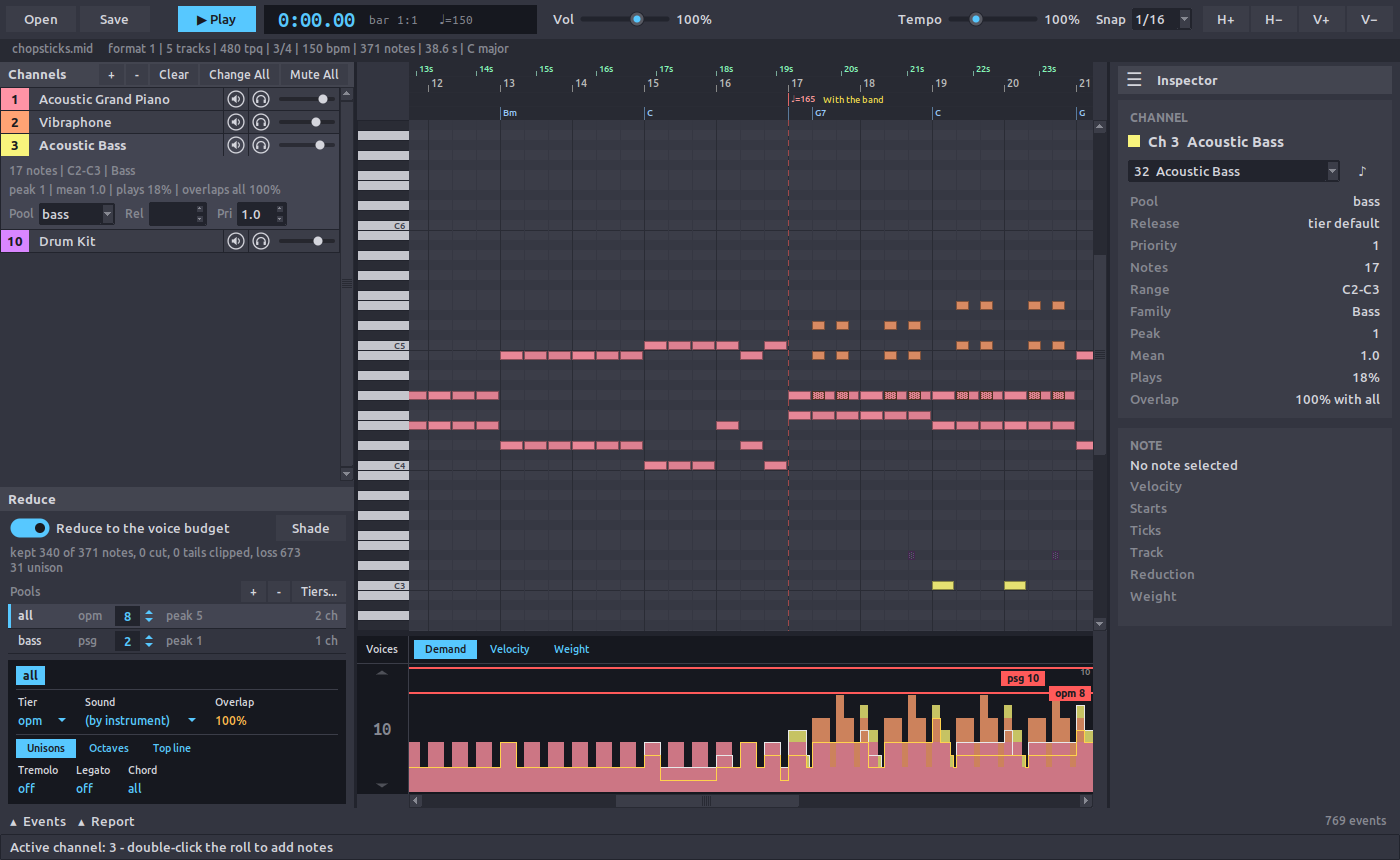
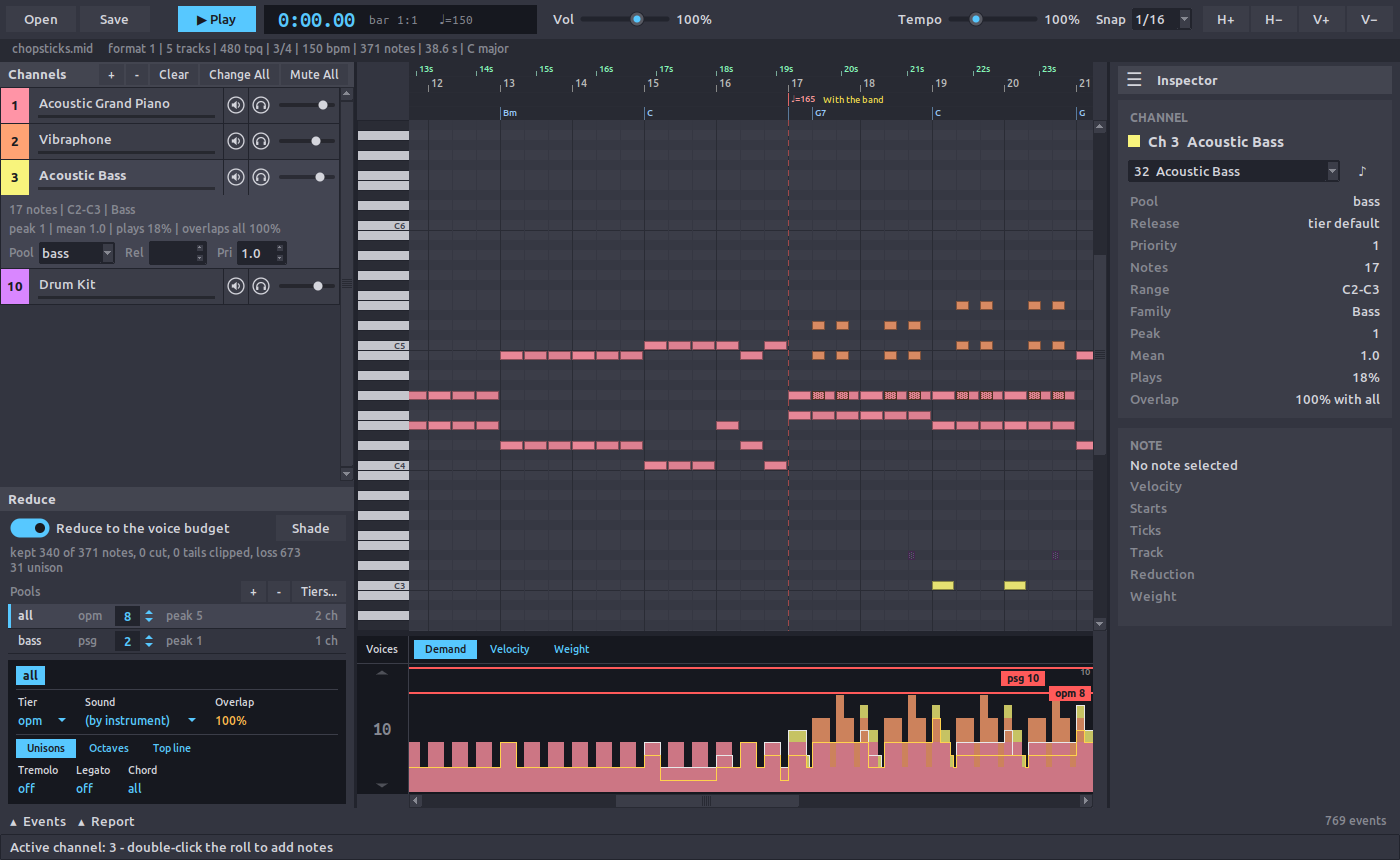
Show each channel's level during playback on a meter line under its name, with a held peak, and light its number swatch by the level, dimming it while the channel is silent; make the rows taller to hold the meter; update the docs and the changelog and retake the screenshots

Changed region(s): [[0.0, 0.0907, 0.2457, 0.3628]]

diff --git a/montyroll/app.py b/montyroll/app.py
@@ -62,7 +62,14 @@ MASTER_MAX = 150     # the master volume's top, in percent
 GAP_STEP = 10        # ticks a step of the Tremolo and Legato readouts moves
 NOTE_HOVER_MIX = 0.2     # how far the note under the pointer is lit towards white
 NOTE_MARGIN = 1.0    # view widths of notes drawn either side of the roll's view
-ROW_PAD = "1.5p"     # space above and below a channel row's name, which sets the bar's height
+ROW_PAD = "3.75p"    # space above a row's name and below its meter, setting the bar's height
+METER_GAP = "1.5p"   # between a row's name and its meter line
+METER_H = 3          # the meter line's height, in pixels
+METER_SUSTAIN = 0.66     # a held note's level against its onset's
+METER_DECAY_S = 0.4      # seconds from a note's onset to its held level
+METER_FALL = 1.5         # full scales a meter falls per second once its notes end
+METER_PEAK_HOLD_S = 1.0  # seconds a meter's peak mark holds before it falls
+SWATCH_DIM = 0.7     # how far a silent channel's swatch sinks into its bar during playback
 HOVER_LEVELS = ("bar", "beat", "cell")   # the lit areas under the pointer, outermost first
 BLACK_KEYS = (1, 3, 6, 8, 10)   # pitch classes of the black keys, shaded on the roll
 KEY_BLACK_SHADE = 0.6   # a lit black key's share of its channel colour, so it still reads as black
@@ -346,6 +353,11 @@ class MidiEditorApp(tk.Tk):
         self.channelDetails: dict[int, tk.Frame] = {}    # per channel: the part shown when active
         self.nameLabels: dict[int, tk.Label] = {}        # per channel: the instrument on its row
         self.rowBars: dict[int, tk.Frame] = {}           # per channel: its row's one-line bar
+        self.rowSwatches: dict[int, tk.Label] = {}       # per channel: the number on its colour
+        self.rowMeters: dict[int, tk.Canvas] = {}        # per channel: the level meter line
+        self._meters: dict[int, list[float]] = {}        # per channel: [level, peak, peak's age]
+        self._meterDrawn: dict[int, tuple] = {}          # per channel: what its meter shows
+        self._meterTime: float | None = None             # the frame the meters last moved at
         self.rowNames: dict[int, str] = {}               # per channel: that name in full
         self.activeChannel = 0
         self.originalPrograms: dict[int, int] = {}   # per channel, as the file was opened
@@ -1563,6 +1575,9 @@ class MidiEditorApp(tk.Tk):
         self.nameLabels.clear()
         self.rowNames.clear()
         self.rowBars.clear()
+        self.rowSwatches.clear()
+        self.rowMeters.clear()
+        self._meterDrawn.clear()
         self.poolCombos.clear()
         self.usageLabels.clear()
         self.usageText.clear()
@@ -1587,8 +1602,10 @@ class MidiEditorApp(tk.Tk):
             top = tk.Frame(row, bg=p["raised"])
             top.pack(fill="x")
             self.rowBars[ch] = top
-            tk.Label(top, text=str(ch + 1), bg=colour, fg=p["ink"], width=digits, padx=5,
-                     font=(self.uiFamily, 10, "bold")).pack(side="left", fill="y")
+            swatch = tk.Label(top, text=str(ch + 1), bg=colour, fg=p["ink"], width=digits,
+                              padx=5, font=(self.uiFamily, 10, "bold"))
+            swatch.pack(side="left", fill="y")
+            self.rowSwatches[ch] = swatch
 
             # Volume slider starts at the file's CC7 value, or 100 when the
             # channel has none. Its style puts the trough on the bar's grey.
@@ -1624,12 +1641,23 @@ class MidiEditorApp(tk.Tk):
                 tk.Frame(top, width=1, bg=p["border"]).pack(side="right", fill="y")
                 Tooltip(b, tip)
 
+            # The level meter, a line under the name in the space between the
+            # swatch and the controls, which _moveMeters fills during
+            # playback: a fill in the channel's colour and a peak mark.
+            meter = tk.Canvas(top, height=METER_H, highlightthickness=0,
+                              bg=theme.mix(p["raised"], "#000000", 0.35))
+            meter.pack(side="bottom", fill="x", padx=(9, 8), pady=(METER_GAP, ROW_PAD))
+            meter.create_rectangle(0, 0, 0, METER_H, fill=colour, outline="", tags="level")
+            meter.create_rectangle(0, 0, 0, METER_H, fill=p["text"], outline="", tags="peak",
+                                   state="hidden")
+            self.rowMeters[ch] = meter
+
             # The name asks for no width of its own and is fitted to what it
-            # is given whenever that changes; its padding sets the bar's
-            # height.
+            # is given whenever that changes; the space above it and below
+            # the meter sets the bar's height.
             name = tk.Label(top, text=info.instrument, anchor="w", width=1, bg=p["raised"],
-                            fg=p["text"], font=self.rowNameFont, pady=ROW_PAD)
-            name.pack(side="left", fill="x", expand=True, padx=(8, 0))
+                            fg=p["text"], font=self.rowNameFont, pady=1)
+            name.pack(side="left", fill="x", expand=True, padx=(8, 0), pady=(ROW_PAD, 0))
             name.bind("<Configure>", lambda e, c=ch: self._fitRowName(c))
             self.nameLabels[ch] = name
             self.rowNames[ch] = info.instrument
@@ -1954,7 +1982,7 @@ class MidiEditorApp(tk.Tk):
                 detail.pack_forget()
 
     def _paintRowBar(self, ch: int, colour: str, bold: bool):
-        """Colour a channel row's bar, its icons' and slider's styles, and its name.
+        """Colour a channel row's bar, its meter's track, its icons and slider, and its name.
 
         Args:
             ch: 0-based channel index.
@@ -1963,6 +1991,7 @@ class MidiEditorApp(tk.Tk):
         """
         s = ttk.Style(self)
         self.rowBars[ch].configure(bg=colour)
+        self.rowMeters[ch].configure(bg=theme.mix(colour, "#000000", 0.35))
         self.nameLabels[ch].configure(bg=colour,
                                       font=self.rowNameBoldFont if bold else self.rowNameFont)
 
@@ -6657,9 +6686,111 @@ class MidiEditorApp(tk.Tk):
 
         self._litKeys = lit
 
+    def _meterTargets(self, tick: float) -> dict[int, float]:
+        """Give each channel's level at a tick, 0.0 to 1.0, from the notes sounding there.
+
+        A note's level is its velocity times its channel's volume (CC7, or
+        100 when the file sets none), full at its onset and easing to
+        `METER_SUSTAIN` of that over `METER_DECAY_S` while it is held; a
+        channel's is its loudest note's. Only what is heard counts, as for
+        the lit keys.
+
+        Args:
+            tick: absolute tick, the playback cursor's.
+
+        Returns:
+            dict[int, float]: by channel, for the channels sounding.
+        """
+        now = self.song.tickToSeconds(tick)
+        targets: dict[int, float] = {}
+
+        for n in self._soundingAt(tick):
+            info = self.song.channels.get(n.channel)
+            volume = (info.volume if info is not None and info.volume >= 0 else 100) / 127
+            held = min(1.0, (now - self.song.tickToSeconds(n.start)) / METER_DECAY_S)
+            level = n.velocity / 127 * volume * (1.0 - (1.0 - METER_SUSTAIN) * held)
+            targets[n.channel] = max(targets.get(n.channel, 0.0), level)
+
+        return targets
+
+    def _moveMeters(self, tick: float, now: float):
+        """Move every channel's meter and swatch light to the frame at a tick.
+
+        A meter rises at once to its channel's level and falls by
+        `METER_FALL` a second when the level drops; its peak mark holds for
+        `METER_PEAK_HOLD_S` and then falls at the same rate. The swatch is
+        lit by the level and sinks into the bar while the channel is
+        silent.
+
+        Args:
+            tick: absolute tick, the playback cursor's.
+            now: the frame's time in seconds, monotonic.
+        """
+        elapsed = 0.0 if self._meterTime is None else max(0.0, now - self._meterTime)
+        self._meterTime = now
+        targets = self._meterTargets(tick)
+        fall = METER_FALL * elapsed
+
+        for ch in self.rowMeters:
+            level, peak, age = self._meters.get(ch, [0.0, 0.0, 0.0])
+            level = max(targets.get(ch, 0.0), level - fall)
+
+            # The peak resets at a higher level and holds, then falls.
+            if level >= peak:
+                peak, age = level, 0.0
+            else:
+                age += elapsed
+                peak = max(level, peak - fall) if age > METER_PEAK_HOLD_S else peak
+
+            self._meters[ch] = [level, peak, age]
+            self._drawMeter(ch, level, peak)
+
+    def _drawMeter(self, ch: int, level: float, peak: float):
+        """Show a channel's meter and swatch at a level and peak, repainting only what moved.
+
+        Args:
+            ch: 0-based channel index.
+            level: 0.0 to 1.0.
+            peak: 0.0 to 1.0.
+        """
+        meter = self.rowMeters[ch]
+        width = meter.winfo_width()
+        colour = CHANNEL_COLORS[ch]
+        bar = str(self.rowBars[ch].cget("bg"))
+        dim = theme.mix(colour, bar, SWATCH_DIM)
+        lit = theme.mix(dim, colour, 0.35 + 0.65 * min(level, 1.0)) if level > 0 else dim
+        shown = (round(width * level), round(width * peak) if peak > level else -1, lit)
+
+        if self._meterDrawn.get(ch) == shown:
+            return
+
+        fill, mark, swatch = shown
+        meter.coords("level", 0, 0, fill, METER_H)
+
+        if mark < 0:
+            meter.itemconfigure("peak", state="hidden")
+        else:
+            meter.coords("peak", mark - 1, 0, mark + 1, METER_H)
+            meter.itemconfigure("peak", state="normal")
+
+        self.rowSwatches[ch].configure(bg=swatch)
+        self._meterDrawn[ch] = shown
+
+    def _clearMeters(self):
+        """Empty every meter and give every swatch its full colour, as when stopped."""
+        self._meters.clear()
+        self._meterTime = None
+
+        for ch, meter in self.rowMeters.items():
+            meter.coords("level", 0, 0, 0, METER_H)
+            meter.itemconfigure("peak", state="hidden")
+            self.rowSwatches[ch].configure(bg=CHANNEL_COLORS[ch])
+
+        self._meterDrawn.clear()
+
     def stopPlayback(self):
         """Stop the synth, drop any pending restart and clear the cursor, the
-        lit keys and the position readout."""
+        lit keys, the meters and the position readout."""
         if self._replayAfter:
             self.after_cancel(self._replayAfter)
             self._replayAfter = None
@@ -6679,6 +6810,7 @@ class MidiEditorApp(tk.Tk):
             self.demandCursorItem = None
 
         self._paintKeys({})
+        self._clearMeters()
 
     def _tickCursor(self):
         """Advance the playback cursor; reschedules itself every 33 ms.
@@ -6706,8 +6838,10 @@ class MidiEditorApp(tk.Tk):
         x = tick * self.ppt
         self._showReadout(elapsed, self.playSpeed)
 
-        # The keys of the notes sounding at the cursor light up.
+        # The keys of the notes sounding at the cursor light up, and the
+        # channels' meters move.
         self._lightKeys(tick)
+        self._moveMeters(tick, time.monotonic())
 
         # The cursor line is created on the first tick after a redraw and
         # moved on every tick after that.

diff --git a/tests/test_app.py b/tests/test_app.py
@@ -41,13 +41,19 @@ from montyroll.app import (
     LANE_PAD,
     MASTER_MAX,
     MAX_EVENT_ROWS,
+    METER_FALL,
+    METER_H,
+    METER_PEAK_HOLD_S,
+    METER_SUSTAIN,
     NO_CHIP,
     NO_POOL,
     NO_TIER,
     NOTE_HOVER_MIX,
     PLAY_GLYPH,
     REDUCE_SWITCH_S,
+    ROW_PAD,
     STOP_GLYPH,
+    SWATCH_DIM,
     TEMPO_GLYPH,
     X16_TIERS,
     MidiEditorApp,
@@ -312,7 +318,8 @@ class TestTheme:
         assert label.cget("text").endswith(ELLIPSIS)
         font = app.rowNameBoldFont if ch == app.activeChannel else app.rowNameFont
         assert font.measure(label.cget("text")) <= label.winfo_width()
-        controls = [w for w in label.master.winfo_children() if w.winfo_x() > label.winfo_x()]
+        controls = [w for w in label.master.winfo_children()
+                    if w.winfo_x() > label.winfo_x() and w is not app.rowMeters[ch]]
         assert label.winfo_x() + label.winfo_width() <= min(w.winfo_x() for w in controls)
         app.paned.sashpos(0, wide)
         app.update()
@@ -2853,6 +2860,96 @@ class TestPlayingKeys:
         assert not app._litKeys and self._fill(app, 60) == theme.ROLL["white"]
         app._lightKeys(100)
         assert self._fill(app, 60) == CHANNEL_COLORS[0]
+
+
+class TestChannelMeters:
+    """Each channel row's level meter and swatch light during playback."""
+
+    def _level(self, vel: int, cc7: int, held: float = 0.0) -> float:
+        """A note's level from its velocity, its channel's CC7, and how far it has eased."""
+        level = vel / 127 * cc7 / 127 * (1.0 - (1.0 - METER_SUSTAIN) * held)
+        return level
+
+    def testEveryRowHasAMeterUnderItsName(self, app: MidiEditorApp) -> None:
+        """The meter line runs under the name, with space above the name and below the line."""
+        app.update_idletasks()
+        space = round(app.winfo_fpixels(ROW_PAD))
+
+        for ch, meter in app.rowMeters.items():
+            name = app.nameLabels[ch]
+            assert meter.winfo_y() >= name.winfo_y() + name.winfo_height()
+            assert int(meter.cget("height")) == METER_H
+            assert name.winfo_y() == space
+            bar = app.rowBars[ch]
+            assert bar.winfo_height() - (meter.winfo_y() + METER_H) == space
+
+    def testTargetsFollowTheSoundingNotes(self, app: MidiEditorApp) -> None:
+        """A channel's level is its loudest note's velocity times its volume, easing while held."""
+        at = app._meterTargets(0)
+        assert at[0] == pytest.approx(self._level(100, 100))
+        assert at[1] == pytest.approx(self._level(80, 90))
+        assert at[9] == pytest.approx(self._level(110, 100))      # no CC7 on the drums
+        held = app._meterTargets(900)
+        assert held[1] == pytest.approx(self._level(80, 90, 1.0))
+
+    def testMutedChannelsStayEmpty(self, app: MidiEditorApp) -> None:
+        """A muted channel's notes are not heard, so its meter does not move."""
+        app.muteVars[0].set(True)
+        assert 0 not in app._meterTargets(0)
+
+    def testMetersFallAndPeaksHold(self, app: MidiEditorApp) -> None:
+        """Once its notes end a meter falls at its rate; the peak holds, then falls too."""
+        app.update_idletasks()
+        app._moveMeters(0, 10.0)
+        top = self._level(100, 100)
+        assert app._meters[0][:2] == pytest.approx([top, top])
+        app._moveMeters(5000, 10.1)
+        level, peak, _ = app._meters[0]
+        assert level == pytest.approx(top - METER_FALL * 0.1)
+        assert peak == pytest.approx(top)
+        width = app.rowMeters[0].winfo_width()
+        assert app.rowMeters[0].coords("level")[2] == round(width * level)
+        assert app.rowMeters[0].itemcget("peak", "state") == "normal"
+        app._moveMeters(5000, 10.1 + METER_PEAK_HOLD_S + 0.5)
+        level, peak, _ = app._meters[0]
+        assert level == 0.0 and peak == 0.0
+        assert app.rowMeters[0].itemcget("peak", "state") == "hidden"
+
+    def testTheSwatchLightsWithItsChannel(self, app: MidiEditorApp) -> None:
+        """A sounding channel's swatch is lit, a silent one sinks, and stopping restores both."""
+        app._moveMeters(0, 10.0)
+        silent = sorted(set(app.rowSwatches) - {0, 1, 9})[0]
+        bar = str(app.rowBars[silent].cget("bg"))
+        dim = theme.mix(CHANNEL_COLORS[silent], bar, SWATCH_DIM)
+        assert str(app.rowSwatches[silent].cget("bg")) == dim
+        assert str(app.rowSwatches[0].cget("bg")) != theme.mix(CHANNEL_COLORS[0],
+                                                               str(app.rowBars[0].cget("bg")),
+                                                               SWATCH_DIM)
+        app.stopPlayback()
+        assert all(str(sw.cget("bg")) == CHANNEL_COLORS[ch]
+                   for ch, sw in app.rowSwatches.items())
+        assert all(m.coords("level")[2] == 0 for m in app.rowMeters.values())
+
+    def testTheTrackFollowsTheBar(self, app: MidiEditorApp) -> None:
+        """The meter's track is a darker shade of its bar, lit on the active row."""
+        first, second = sorted(app.song.channels)[:2]
+        app._setActiveChannel(second)
+        for ch in (first, second):
+            bar = str(app.rowBars[ch].cget("bg"))
+            assert str(app.rowMeters[ch].cget("bg")) == theme.mix(bar, "#000000", 0.35)
+
+    def testAFrameOfPlaybackMovesTheMeters(self, app: MidiEditorApp,
+                                           monkeypatch: pytest.MonkeyPatch) -> None:
+        """Each tick of the cursor moves the meters, and stopping empties them."""
+        calls: list[int] = []
+        monkeypatch.setattr(app.player, "play", lambda *a, **k: calls.append(1) or True)
+        monkeypatch.setattr(player, "findPlayer", lambda: ["fakesynth"])
+        monkeypatch.setattr(type(app.player), "playing", property(lambda self: bool(calls)))
+        app.playFrom(100)
+        app._tickCursor()
+        assert app._meters[0][0] > 0
+        app.stopPlayback()
+        assert not app._meters
 
 
 class TestPlayback:

diff --git a/docs/usage.md b/docs/usage.md
@@ -62,7 +62,7 @@ Sometimes a whole file is at the wrong speed, as when it was sequenced at half i
 
 ## Play the file
 
-Playback goes through [a synth](install.md#add-a-synth-for-sound), and a cursor moves across the roll in step with the music. The keyboard down the side of the roll lights each key as its note sounds, in the colour of the channel playing it, so the keys show which part plays which pitch. A black key lights in a darker shade of the colour, and where two channels sound one pitch, the note that started last lights it. A muted channel lights nothing, and with **Reduce to the voice budget** on, only the notes the reduction keeps light up.
+Playback goes through [a synth](install.md#add-a-synth-for-sound), and a cursor moves across the roll in step with the music. The keyboard down the side of the roll lights each key as its note sounds, in the colour of the channel playing it, so the keys show which part plays which pitch. A black key lights in a darker shade of the colour, and where two channels sound one pitch, the note that started last lights it. A muted channel lights nothing, and with **Reduce to the voice budget** on, only the notes the reduction keeps light up. The channel rows follow the music the same way: a meter under each name shows the channel's level, its loudest sounding note's velocity times its volume, with a mark that holds the peak, and the number swatch is lit while the channel plays and dims while it rests.
 
 **Play** on the toolbar starts the music from the first bar, and the same button stops it. `Space` does both from the keyboard. Playback can also start part way through. A right-click on the roll opens a menu with **Play from bar N** and **Play from beat N:B**, for the bar and the beat under the pointer.
 

diff --git a/docs/reference.md b/docs/reference.md
@@ -169,8 +169,9 @@ Each channel in use has a row, and a click on a row makes its channel the active
 
 | Control | Values | Effect |
 | --- | --- | --- |
-| Number swatch | | The channel's number on a block in the colour of its notes, at the left of the bar. Every swatch is as wide as the largest number in the file, so the names line up. |
+| Number swatch | | The channel's number on a block in the colour of its notes, at the left of the bar. Every swatch is as wide as the largest number in the file, so the names line up. During playback it is lit by the channel's level and sinks into the bar while the channel is silent. |
 | Instrument name | | The GM instrument of the channel. The inspector changes it. A name too long for the row ends in an ellipsis. |
+| Level meter | | A line under the name that fills in the channel's colour during playback with the level of its loudest sounding note, its velocity times the channel's volume. It rises at each note, eases while the note is held, falls once it ends, and a mark holds the peak for a second. |
 | Speaker icon | on, off | Mutes the channel in playback and dims its notes. |
 | Headphones icon | on, off | Plays the soloed channels alone. |
 | Volume slider | 0 to 127 | Writes a `CC7` volume event into the file. |

diff --git a/README.md b/README.md
@@ -68,7 +68,7 @@ Notes are added, moved, resized, and deleted with the mouse, on a grid from whol
 
 **Playing**
 
-**Play** or `Space` plays the file through the synth, with a cursor that follows the tempo map and scrolls the roll, and the keyboard lights each key as its note sounds, in the colour of its channel. Each channel has a mute and a solo, and its instrument can be previewed in the pitch range of that channel. The master volume and the playback tempo (25-300%) change what is heard and leave the file as it is. A change to any of these during playback takes effect from the cursor.
+**Play** or `Space` plays the file through the synth, with a cursor that follows the tempo map and scrolls the roll, the keyboard lights each key as its note sounds, in the colour of its channel, and each channel's row shows its level on a meter. Each channel has a mute and a solo, and its instrument can be previewed in the pitch range of that channel. The master volume and the playback tempo (25-300%) change what is heard and leave the file as it is. A change to any of these during playback takes effect from the cursor.
 
 **Reducing**
 

diff --git a/CHANGELOG.md b/CHANGELOG.md
@@ -6,6 +6,10 @@ This project is alpha. Behaviour, file handling and the user interface may chang
 
 ## [Unreleased]
 
+### Added
+
+- **Channel meters.** During playback a meter under each channel's name shows its level, the velocity of its loudest sounding note times its volume, rising at each note, easing while it is held and falling once it ends, with a mark that holds the peak for a second. The number swatch is lit by the level and dims while the channel is silent. The rows are a little taller to hold the meter, and stopping clears it.
+
 ## [0.5.0] - 2026-10-24
 
 ### Added
